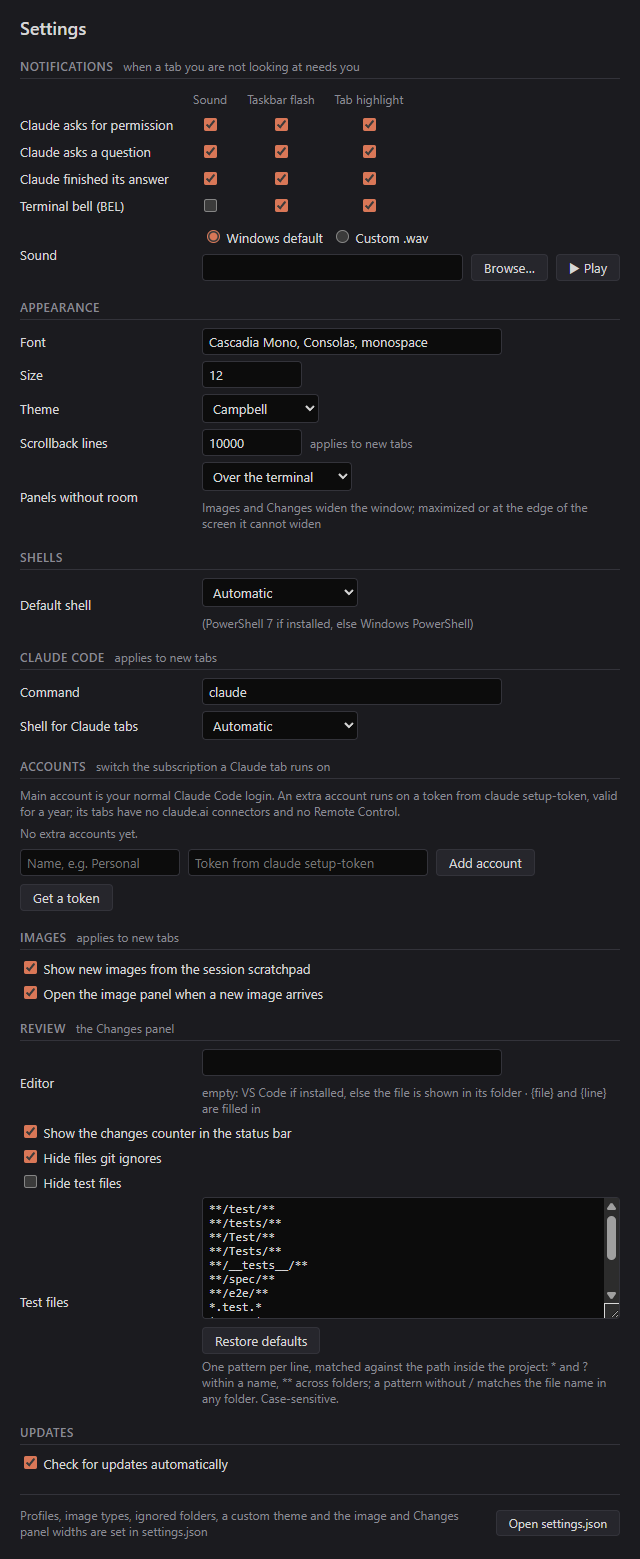
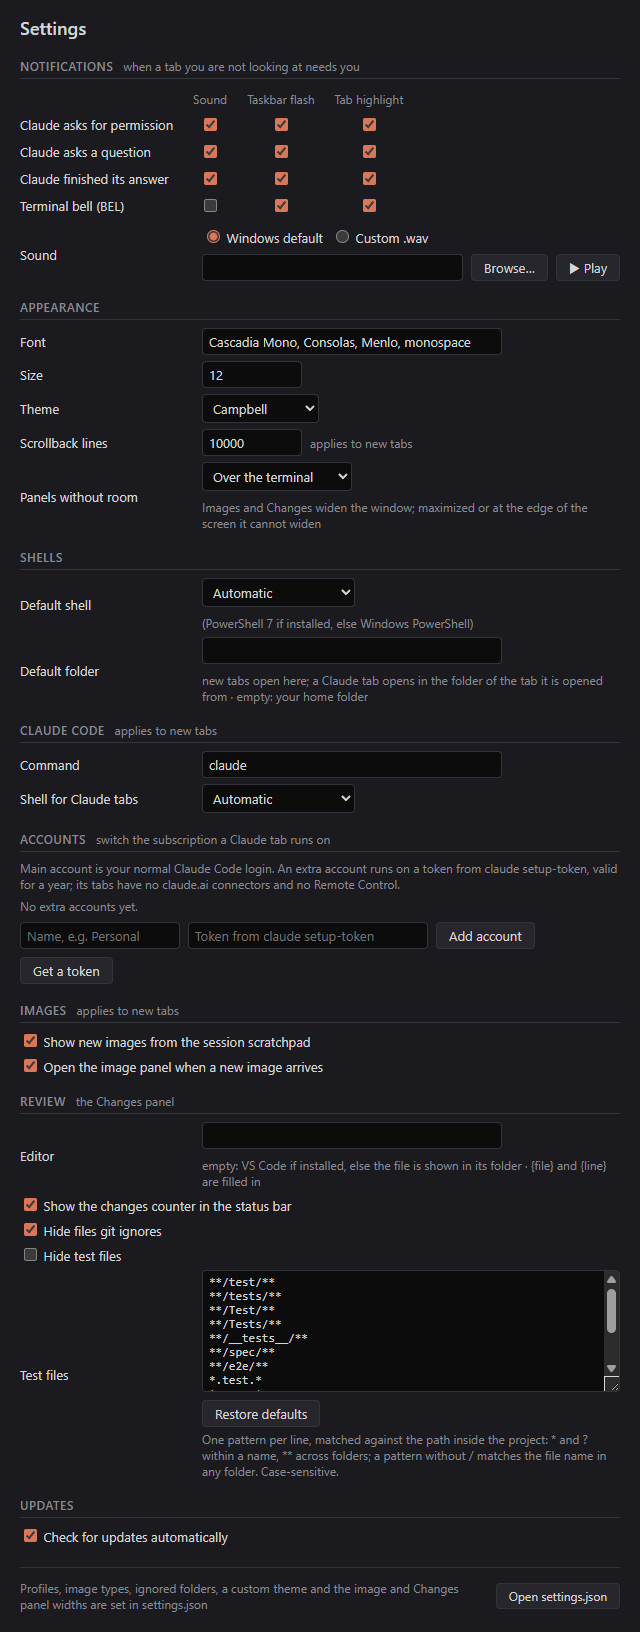
feat: a default folder for new tabs (#6)
A new setting, defaultFolder in settings.json and the Default folder field under Settings → Shells, names the folder new tabs open in: the first tab at start, a new shell tab (Ctrl+Shift+T, the + button and the profiles of the ▾ menu). A Claude tab still opens in the folder of the tab it is opened from, and in the default folder when there is none. The value is an absolute path; null, the default, keeps the home folder, and settings.json with any other value falls back to null with the usual "invalid value" error. A default folder that no longer exists opens the tab in the home folder with "Folder not found", as a missing folder of the command line or of a restored tab does; the tab itself would fail to start there.

The README lists the setting, and the settings window image shows the new field.

Tests: unit tests for the setting's parsing and key; e2e tests of the settings field (saves an absolute folder, refuses a relative one, emptied goes back to the home folder), that the first tab, a new tab and a Claude tab opened from it start in the folder, and that with the folder gone the first tab and a new tab start in the home folder with the notice.

diff --git a/tests/e2e/tabs.spec.ts b/tests/e2e/tabs.spec.ts
@@ -1,12 +1,51 @@
-import { expect, test } from '@playwright/test'
+import { expect, test, type Page } from '@playwright/test'
 import { spawn } from 'node:child_process'
-import { mkdirSync, mkdtempSync } from 'node:fs'
+import { mkdirSync, mkdtempSync, rmSync } from 'node:fs'
 import { createRequire } from 'node:module'
-import { tmpdir } from 'node:os'
-import { join } from 'node:path'
-import { bufferText, FAKE_CLAUDE_SETTINGS, launchApp, ROOT, testEnv } from './helpers'
+import { homedir, tmpdir } from 'node:os'
+import { basename, join } from 'node:path'
+import { WIN } from '../fixtures/platform'
+import { bufferText, FAKE_CLAUDE_SETTINGS, KEYS, launchApp, ROOT, testEnv, typeInTerminal } from './helpers'
 
 const electronExe = createRequire(__filename)('electron') as unknown as string
+
+/** The active tab runs in the folder: PowerShell's prompt shows it, bash prints it when asked (the stand-in claude prints it itself) */
+async function expectFolder(page: Page, folder: string, ask: boolean): Promise<void> {
+  const id = (await page.evaluate(() => window.__ct!.activeTabId()))!
+  if (ask && !WIN) await typeInTerminal(page, 'pwd')
+  // the folder's name: on macOS the shell reports /var/… as /private/var/…
+  await expect.poll(() => bufferText(page, id), { timeout: 15_000 }).toContain(basename(folder))
+}
+
+test('defaultFolder: the first tab and a new tab open in it, and a Claude tab opened from such a tab too', async () => {
+  const folder = mkdtempSync(join(tmpdir(), 'ct-folder-'))
+  const { app, page } = await launchApp({ settings: { ...FAKE_CLAUDE_SETTINGS, defaultFolder: folder } })
+  await page.waitForFunction(() => window.__ct!.tabIds().length === 1)
+  await expectFolder(page, folder, true)
+  await page.locator('.terminal-host:visible .xterm').click()
+  await page.keyboard.press(KEYS.newTab)
+  await page.waitForFunction(() => window.__ct!.tabIds().length === 2)
+  await expectFolder(page, folder, true)
+  await page.locator('.terminal-host:visible .xterm').click()
+  await page.keyboard.press(KEYS.newClaudeTab)
+  await page.waitForFunction(() => window.__ct!.tabIds().length === 3)
+  await expectFolder(page, folder, false)
+  await app.close()
+})
+
+test('defaultFolder that does not exist: the first tab and a new tab open in the home folder, and a notice says so', async () => {
+  const folder = mkdtempSync(join(tmpdir(), 'ct-folder-'))
+  rmSync(folder, { recursive: true })
+  const { app, page } = await launchApp({ settings: { ...FAKE_CLAUDE_SETTINGS, defaultFolder: folder } })
+  await page.waitForFunction(() => window.__ct!.tabIds().length === 1)
+  await expect(page.locator('.toast', { hasText: `Folder not found: ${folder}` })).toBeVisible()
+  await expectFolder(page, homedir(), true)
+  await page.locator('.terminal-host:visible .xterm').click()
+  await page.keyboard.press(KEYS.newTab)
+  await page.waitForFunction(() => window.__ct!.tabIds().length === 2)
+  await expectFolder(page, homedir(), true)
+  await app.close()
+})
 
 test('second instance opens a claude tab in the running window', async () => {
   const work = mkdtempSync(join(tmpdir(), 'ct-work-'))

diff --git a/src/renderer/main.ts b/src/renderer/main.ts
@@ -66,6 +66,9 @@ let accounts: AccountView[] = []
 
 const titleOf = (t: TabState): string => t.info.customTitle ?? t.oscTitle ?? folderName(t.info.cwd)
 
+/** where a new tab opens: the defaultFolder setting, else the home folder */
+const defaultFolder = (): string => settings.defaultFolder ?? appInfo.homeDir
+
 function renderTabs(): void {
   const items = order.flatMap((id) => {
     const t = tabs.get(id)
@@ -190,8 +193,8 @@ async function paste(t: TabState, allowImage: boolean): Promise<void> {
 function runAction(a: KeyAction, tabId: string | null): void {
   const t = tabId ? tabs.get(tabId) : undefined
   switch (a.type) {
-    case 'newTab': void ct.openTab({ kind: 'shell', cwd: appInfo.homeDir }); break
-    case 'newClaudeTab': void ct.openTab({ kind: 'claude', cwd: t?.info.cwd ?? appInfo.homeDir }); break
+    case 'newTab': void ct.openTab({ kind: 'shell', cwd: defaultFolder() }); break
+    case 'newClaudeTab': void ct.openTab({ kind: 'claude', cwd: t?.info.cwd ?? defaultFolder() }); break
     case 'closeTab': if (tabId) ct.closeTab(tabId); break
     case 'nextTab': cycleTabs(1); break
     case 'prevTab': cycleTabs(-1); break
@@ -307,13 +310,13 @@ function newTabMenu(anchor: HTMLElement): void {
   void ct.listProfiles().then((names) => {
     const active = activeId ? tabs.get(activeId) : undefined
     const items: MenuItem[] = [
-      ...names.map((name) => ({ label: name, action: () => void ct.openTab({ kind: 'shell', cwd: appInfo.homeDir, profile: name }) })),
+      ...names.map((name) => ({ label: name, action: () => void ct.openTab({ kind: 'shell', cwd: defaultFolder(), profile: name }) })),
       { label: '', separator: true },
-      { label: 'Claude Code', action: () => void ct.openTab({ kind: 'claude', cwd: active?.info.cwd ?? appInfo.homeDir }) },
+      { label: 'Claude Code', action: () => void ct.openTab({ kind: 'claude', cwd: active?.info.cwd ?? defaultFolder() }) },
       ...accountChoices(accounts).map((c) => ({
         label: `Claude Code — ${c.label}`,
         disabled: c.disabled,
-        action: () => void ct.openTab({ kind: 'claude', cwd: active?.info.cwd ?? appInfo.homeDir, account: c.account })
+        action: () => void ct.openTab({ kind: 'claude', cwd: active?.info.cwd ?? defaultFolder(), account: c.account })
       })),
       { label: 'Recent sessions…', action: () => void sessionsWindow.open() },
       ...(restoreInfo ? [{ label: `Restore previous session (${restoreInfo.tabs})`, action: () => ct.runRestore() }] : []),
@@ -379,7 +382,7 @@ async function boot(): Promise<void> {
     close: (id) => ct.closeTab(id),
     rename: (id, title) => ct.renameTab(id, title),
     reorder: (ids) => ct.reorderTabs(ids),
-    newTab: () => void ct.openTab({ kind: 'shell', cwd: appInfo.homeDir }),
+    newTab: () => void ct.openTab({ kind: 'shell', cwd: defaultFolder() }),
     openMenu: (anchor) => newTabMenu(anchor),
     tabMenu,
     toggleImages: () => {

diff --git a/src/main/settings.ts b/src/main/settings.ts
@@ -1,11 +1,12 @@
 import { existsSync, mkdirSync, readFileSync, writeFileSync } from 'node:fs'
-import { dirname, win32 } from 'node:path'
+import { dirname, isAbsolute, win32 } from 'node:path'
 import { NOTIFICATION_CASES, NOTIFICATION_CHANNELS, NUMBER_LIMITS, type SettingKey, type SettingValue } from '../shared/settings-keys'
 import { DEFAULT_TEST_PATTERNS, MAX_TEST_PATTERNS, MAX_TEST_PATTERN_LENGTH } from '../shared/test-files'
 import type { NoRoomMode, NotificationSettings, ProfileDef, Settings } from '../shared/types'
 
 export const DEFAULT_SETTINGS: Settings = {
   defaultProfile: null,
+  defaultFolder: null,
   claude: { command: 'claude', shellProfile: null },
   profiles: [],
   font: { family: 'Cascadia Mono, Consolas, Menlo, monospace', size: 12 },
@@ -44,6 +45,7 @@ interface RawProfile { name: string; command: string; args?: string[] }
 
 const isStr: Guard<string> = (v): v is string => typeof v === 'string' && v.length > 0
 const isNullableStr: Guard<string | null> = (v): v is string | null => v === null || isStr(v)
+const isFolder: Guard<string | null> = (v): v is string | null => v === null || (isStr(v) && isAbsolute(v))
 const isBool: Guard<boolean> = (v): v is boolean => typeof v === 'boolean'
 const isStrArr: Guard<string[]> = (v): v is string[] => Array.isArray(v) && v.every(isStr)
 const isTestPatterns: Guard<string[]> = (v): v is string[] => isStrArr(v) && v.length <= MAX_TEST_PATTERNS && v.every((p) => p.length <= MAX_TEST_PATTERN_LENGTH)
@@ -105,6 +107,7 @@ export function parseSettings(text: string | null): ParsedSettings {
 
   const settings: Settings = {
     defaultProfile: take('defaultProfile', raw.defaultProfile, isNullableStr, d.defaultProfile),
+    defaultFolder: take('defaultFolder', raw.defaultFolder, isFolder, d.defaultFolder),
     claude: {
       command: take('claude.command', claude.command, isStr, d.claude.command),
       shellProfile: take('claude.shellProfile', claude.shellProfile, isNullableStr, d.claude.shellProfile)

diff --git a/src/main/index.ts b/src/main/index.ts
@@ -397,12 +397,23 @@ function bootstrap(): void {
     }
   }
 
+  /** the folder new tabs open in: the defaultFolder setting, else (or when that folder is gone) the home folder */
+  const defaultFolder = (): string => {
+    if (settings.defaultFolder === null) return homedir()
+    const { cwd, warning } = resolveLaunchDir(settings.defaultFolder, homedir(), isDirectory)
+    if (warning) toast(warning)
+    return cwd
+  }
+  // the renderer opens new tabs in the defaultFolder setting, a folder only main can check
+  const inDefaultFolder = (req: OpenTabRequest): OpenTabRequest =>
+    settings.defaultFolder !== null && typeof req?.cwd === 'string' && pathKey(req.cwd) === pathKey(settings.defaultFolder) ? { ...req, cwd: defaultFolder() } : req
+
   // the tab opened by a no-argument start; replaced by a restore unless the user typed into it
   let autoTabId: string | null = null
   const openFromLaunch = (cmd: LaunchCommand): void => {
     if (cmd.kind === 'default') {
       if (tabs.list().length === 0) {
-        const t = openTab({ kind: 'shell', cwd: homedir() })
+        const t = openTab({ kind: 'shell', cwd: defaultFolder() })
         autoTabId = t?.id ?? null
       }
       return
@@ -582,7 +593,7 @@ function bootstrap(): void {
     if (restoreAfterUpdate) runRestore()
   })
   ipcMain.on(IPC.bell, (_e, tabId: unknown) => { if (isId(tabId) && tabs.get(tabId)) attention.notify(tabId, 'bell') })
-  ipcMain.handle(IPC.tabsOpen, (_e, req: OpenTabRequest) => (req?.account === undefined || isAccountRef(req.account) ? openTab(req) : null))
+  ipcMain.handle(IPC.tabsOpen, (_e, req: OpenTabRequest) => (req?.account === undefined || isAccountRef(req.account) ? openTab(inDefaultFolder(req)) : null))
   ipcMain.handle(IPC.sessionsList, async (): Promise<RecentSession[]> => {
     const list = await history.list(100, starred.ids())
     listedSessions = new Map(list.map((s) => [s.id, s]))

diff --git a/tests/e2e/settings.spec.ts b/tests/e2e/settings.spec.ts
@@ -1,5 +1,6 @@
 import { expect, test, type ElectronApplication, type Page } from '@playwright/test'
-import { chmodSync, readFileSync, writeFileSync } from 'node:fs'
+import { chmodSync, mkdtempSync, readFileSync, writeFileSync } from 'node:fs'
+import { tmpdir } from 'node:os'
 import { join } from 'node:path'
 import { sendPipeMessage } from '../../src/shared/pipe-client'
 import { DEFAULT_TEST_PATTERNS } from '../../src/shared/test-files'
@@ -204,6 +205,25 @@ test('an out-of-range size shows the error and is not saved', async () => {
   await size.press('Enter')
   await expect(win.locator('.field-error', { hasText: 'Between 6 and 72' })).toBeHidden()
   await expect.poll(() => readSettings(dataDir).font?.size).toBe(14)
+  await app.close()
+})
+
+test('the Default folder field saves an absolute folder, refuses a relative one and, emptied, goes back to the home folder', async () => {
+  const folder = mkdtempSync(join(tmpdir(), 'ct-folder-'))
+  const { app, page, dataDir } = await launchApp({ settings: QUIET })
+  await page.waitForFunction(() => window.__ct!.activeTabId() !== null)
+  const win = await openSettings(app, page)
+  const field = win.locator('[data-key="defaultFolder"]')
+  await field.fill(folder)
+  await field.press('Enter')
+  await expect.poll(() => readSettings(dataDir).defaultFolder).toBe(folder)
+  await field.fill('project')
+  await field.press('Enter')
+  await expect(win.locator('.field-error', { hasText: 'Invalid value for defaultFolder' })).toBeVisible()
+  expect(readSettings(dataDir).defaultFolder).toBe(folder)
+  await field.fill('')
+  await field.press('Enter')
+  await expect.poll(() => readSettings(dataDir).defaultFolder).toBeNull()
   await app.close()
 })
 

diff --git a/tests/unit/settings.test.ts b/tests/unit/settings.test.ts
@@ -4,6 +4,7 @@ import { join } from 'node:path'
 import { describe, expect, it } from 'vitest'
 import { applySettingEdit, DEFAULT_SETTINGS, loadSettingsFile, loadSettingsSafe, parseSettings } from '../../src/main/settings'
 import { DEFAULT_TEST_PATTERNS } from '../../src/shared/test-files'
+import { WIN } from '../fixtures/platform'
 
 describe('parseSettings', () => {
   it('returns defaults for null or empty text', () => {
@@ -103,6 +104,17 @@ describe('parseSettings', () => {
     const r = parseSettings(JSON.stringify({ autoUpdate: 'no' }))
     expect(r.settings.autoUpdate).toBe(true)
     expect(r.errors.join('\n')).toContain('"autoUpdate"')
+  })
+
+  it('defaultFolder: the home folder (null) by default, an absolute path, other values fall back', () => {
+    expect(DEFAULT_SETTINGS.defaultFolder).toBeNull()
+    const folder = WIN ? 'C:\\Work\\Project' : '/home/me/project'
+    expect(parseSettings(JSON.stringify({ defaultFolder: folder })).settings.defaultFolder).toBe(folder)
+    for (const bad of ['project', '', 1]) {
+      const r = parseSettings(JSON.stringify({ defaultFolder: bad }))
+      expect(r.settings.defaultFolder).toBeNull()
+      expect(r.errors).toEqual(['settings.json: invalid value for "defaultFolder", using default'])
+    }
   })
 
   it('normalizes profiles without args', () => {

diff --git a/src/shared/settings-keys.ts b/src/shared/settings-keys.ts
@@ -17,7 +17,7 @@ export type SettingKey =
   | `notifications.${NotificationCase}.${keyof NotificationChannels}`
   | 'notifications.sound'
   | 'font.family' | 'font.size' | 'theme' | 'scrollback'
-  | 'defaultProfile' | 'claude.command' | 'claude.shellProfile'
+  | 'defaultProfile' | 'defaultFolder' | 'claude.command' | 'claude.shellProfile'
   | 'imageWatch.enabled' | 'imagePanel.autoOpen' | 'autoUpdate'
   | 'review.editor' | 'review.statusBar' | 'review.hideIgnored' | 'review.hideTests' | 'review.testPatterns' | 'review.fileTree'
   | 'sidePanel.noRoom'
@@ -28,7 +28,7 @@ export const SETTING_KEYS: readonly SettingKey[] = [
   ...NOTIFICATION_CASES.flatMap((c) => NOTIFICATION_CHANNELS.map((ch) => `notifications.${c}.${ch}` as const)),
   'notifications.sound',
   'font.family', 'font.size', 'theme', 'scrollback',
-  'defaultProfile', 'claude.command', 'claude.shellProfile',
+  'defaultProfile', 'defaultFolder', 'claude.command', 'claude.shellProfile',
   'imageWatch.enabled', 'imagePanel.autoOpen', 'review.editor', 'review.statusBar', 'review.hideIgnored', 'review.hideTests', 'review.testPatterns', 'review.fileTree', 'sidePanel.noRoom', 'autoUpdate'
 ]
 

diff --git a/src/renderer/settings-page.ts b/src/renderer/settings-page.ts
@@ -219,7 +219,9 @@ root.append(
     selectField('Panels without room', 'sidePanel.noRoom', (v) => ({ options: NO_ROOM_OPTIONS, selected: v.settings.sidePanel.noRoom }), (s) => s,
       'Images and Changes widen the window; maximized or at the edge of the screen it cannot widen')),
   section('Shells', null,
-    selectField('Default shell', 'defaultProfile', (v) => profileOptions(v.profiles, v.settings.defaultProfile), profileValue, automaticHint)),
+    selectField('Default shell', 'defaultProfile', (v) => profileOptions(v.profiles, v.settings.defaultProfile), profileValue, automaticHint),
+    textField('Default folder', 'defaultFolder', 'text', (v) => v.settings.defaultFolder ?? '', checkOptionalText,
+      'new tabs open here; a Claude tab opens in the folder of the tab it is opened from · empty: your home folder')),
   section('Claude Code', 'applies to new tabs',
     textField('Command', 'claude.command', 'text', (v) => v.settings.claude.command, checkText),
     selectField('Shell for Claude tabs', 'claude.shellProfile', (v) => profileOptions(v.profiles, v.settings.claude.shellProfile), profileValue)),

diff --git a/tests/unit/settings-keys.test.ts b/tests/unit/settings-keys.test.ts
@@ -2,10 +2,11 @@ import { describe, expect, it } from 'vitest'
 import { isSettingKey, isSettingValue, SETTING_KEYS } from '../../src/shared/settings-keys'
 
 describe('settings keys', () => {
-  it('lists the 12 notification cells, the sound and the seventeen plain settings', () => {
-    expect(SETTING_KEYS).toHaveLength(30)
+  it('lists the 12 notification cells, the sound and the eighteen plain settings', () => {
+    expect(SETTING_KEYS).toHaveLength(31)
     expect(SETTING_KEYS).toContain('notifications.bell.tab')
     expect(SETTING_KEYS).toContain('notifications.sound')
+    expect(SETTING_KEYS).toContain('defaultFolder')
     expect(SETTING_KEYS).toContain('claude.shellProfile')
     expect(SETTING_KEYS).toContain('review.editor')
     expect(SETTING_KEYS).toContain('review.statusBar')

diff --git a/src/shared/types.ts b/src/shared/types.ts
@@ -88,6 +88,8 @@ export type NoRoomMode = Exclude<PanelMode, 'beside'>
 
 export interface Settings {
   defaultProfile: string | null
+  /** the folder new tabs open in, an absolute path; null: the home folder */
+  defaultFolder: string | null
   claude: { command: string; shellProfile: string | null }
   profiles: ProfileDef[]
   font: { family: string; size: number }

diff --git a/README.md b/README.md
@@ -176,6 +176,7 @@ Everything is stored in `%APPDATA%\ClaudeTerm\settings.json` (`~/Library/Applica
 ```jsonc
 {
   "defaultProfile": null,          // profile name; null = PowerShell 7 if installed, else Windows PowerShell (macOS, Linux: your login shell)
+  "defaultFolder": null,           // the folder new tabs open in (a Claude tab: the folder of the tab it is opened from); null = your home folder
   "claude": {
     "command": "claude",           // how to start Claude Code
     "shellProfile": null           // shell that hosts claude in Claude tabs; null = same rule as above
